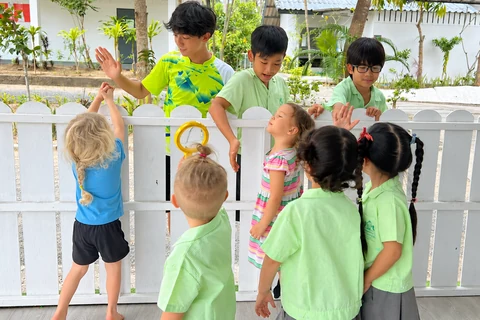
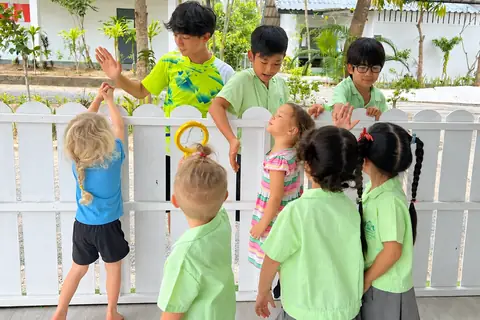
Admissions photo: halve file sizes and load it straight away
Re-encodes admissions-children-fence at WebP quality 70 (the site's photo
recipe): 46/149/257 KB -> 26/77/128 KB with no visible change. The photo
is in the first screen on desktop, so it is no longer lazy-loaded and is
fetched with high priority.

Claude-Session: https://claude.ai/code/session_01JR4YPFXRB8NFUYncfG4WTN

diff --git a/admissions/admissions-visits/index.html b/admissions/admissions-visits/index.html
@@ -71,7 +71,7 @@
 </div>
 </header><main id="main-content">
 <section class="page-hero practical-page-hero"><div class="wrap"><nav aria-label="Breadcrumb" class="eyebrow page-trail">Admissions <span class="page-trail__sep" aria-hidden="true">›</span> <span aria-current="page">Admissions &amp; Visits</span></nav><h1>Admissions &amp; Visits</h1><p>Choosing a school is easier when you can see it in action. We encourage families to visit Greenacre with their child, meet the team and experience a normal school day.</p></div></section>
-<section><div class="wrap grid2"><div><div class="kicker">Come and see Greenacre</div><h2>Start with a visit</h2><p>Greenacre welcomes enquiries from families considering the school, from Early Years at age 3 through to Cambridge IGCSE. A visit gives you the opportunity to see the learning environment, ask questions and discuss your child's needs with the school.</p><div class="action-row"><a class="action" href="mailto:admissions@greenacre.ac.th">Email Admissions</a><a class="action alt" data-path="admissions/fees" href="../fees/">View Fees</a></div></div><div class="photo-plan primary current-school-photo"><img src="../../assets/images/school-2026/admissions-children-fence-960-v1.webp" srcset="../../assets/images/school-2026/admissions-children-fence-480-v1.webp 480w, ../../assets/images/school-2026/admissions-children-fence-960-v1.webp 960w, ../../assets/images/school-2026/admissions-children-fence-1440-v1.webp 1440w" sizes="(max-width: 900px) calc(100vw - 32px), (max-width: 1524px) 48vw, 730px" alt="Greenacre pupils greeting one another across a white picket fence" loading="lazy" decoding="async" width="1440" height="960" style="object-position:50% 50%"></div></div></section>
+<section><div class="wrap grid2"><div><div class="kicker">Come and see Greenacre</div><h2>Start with a visit</h2><p>Greenacre welcomes enquiries from families considering the school, from Early Years at age 3 through to Cambridge IGCSE. A visit gives you the opportunity to see the learning environment, ask questions and discuss your child's needs with the school.</p><div class="action-row"><a class="action" href="mailto:admissions@greenacre.ac.th">Email Admissions</a><a class="action alt" data-path="admissions/fees" href="../fees/">View Fees</a></div></div><div class="photo-plan primary current-school-photo"><img src="../../assets/images/school-2026/admissions-children-fence-960-v1.webp" srcset="../../assets/images/school-2026/admissions-children-fence-480-v1.webp 480w, ../../assets/images/school-2026/admissions-children-fence-960-v1.webp 960w, ../../assets/images/school-2026/admissions-children-fence-1440-v1.webp 1440w" sizes="(max-width: 900px) calc(100vw - 32px), (max-width: 1524px) 48vw, 730px" alt="Greenacre pupils greeting one another across a white picket fence" fetchpriority="high" decoding="async" width="1440" height="960" style="object-position:50% 50%"></div></div></section>
 <section style="background:#fff"><div class="wrap"><div class="kicker">How to join</div><h2>A straightforward admissions process</h2><div class="steps"><div class="step"><b>1</b><h3>Make an Enquiry</h3><p>When you email Admissions, please include your child's age or current year group, your intended start date and any learning or language support needs you would like to discuss.</p></div><div class="step"><b>2</b><h3>Visit Greenacre</h3><p>Arrange a visit where possible to meet the team, see the school and discuss your child’s needs.</p></div><div class="step"><b>3</b><h3>Submit an Application</h3><p>Complete an application for your child and provide the supporting information requested by Admissions.</p></div><div class="step"><b>4</b><h3>Student Assessment</h3><p>Where appropriate, the school will arrange an assessment to help ensure Greenacre can meet your child’s needs.</p></div><div class="step"><b>5</b><h3>Offer of a Place</h3><p>Following the admissions review, successful applicants will receive an offer of a place.</p></div><div class="step"><b>6</b><h3>Welcome to Greenacre</h3><p>Admissions will guide your family through the final arrangements so your child is ready to join the school.</p></div></div></div></section>
 <section><div class="wrap"><div class="notice"><strong>Planning to apply?</strong><br/>Admissions will guide you through the information, documents and next steps needed for your child’s application.</div><div class="action-row"><a class="action" href="mailto:admissions@greenacre.ac.th">Contact Admissions</a><a class="action alt" data-path="admissions/faqs" href="../faqs/">Read FAQs</a></div></div></section>
 </main>

diff --git a/PHOTO-SOURCES.md b/PHOTO-SOURCES.md
@@ -36,7 +36,7 @@ This register reflects the latest user-selected photos for Campus, Secondary, Pr
 | `our-school/environmentality/` / 2 ("Our values in action") | User-selected imagegen edit of `IMG_4188.HEIC`, swapped from the homepage on 11 October 2026 | `assets/images/school-2026/watering-together-*.webp`; 50% 50% |
 | `our-school/wellbeing/` / 1 | [Current school site](https://www.greenacre.ac.th/extra-curricular/wellbeing) | `assets/images/current-site/extra-curricular-wellbeing-02.webp` |
 | `our-school/wellbeing/` / 2 | `IMG_5038.PNG` | `assets/images/school-2026/outdoor-chess-*.webp`; 50% 72% |
-| `admissions/admissions-visits/` / 1 | George-supplied photo of a staff member showing visitors around (1448x1086, second version supplied 17 Oct 2026; replaces the 11 Oct plant photo) | `assets/images/school-2026/admissions-visit-tour-*-v1.webp`; 3:2 crop (rows 90-1055, full width, keeps everyone head to toe), 50% 50%. Levels stretched (0.3%/99.7% luminance), saturation x1.12, no sharpening; WebP quality 70. Set 29/86/148 KB. Earlier plant photo files kept unused |
+| `admissions/admissions-visits/` / 1 | George-supplied photo of students greeting one another across a white picket fence (added by George 24 Oct 2026; replaces the 17 Oct tour photo) | `assets/images/school-2026/admissions-children-fence-*-v1.webp`; 3:2, 50% 50%. Re-encoded 24 Oct 2026 at WebP quality 70 (480/960 made from the 1440 file) to match the site recipe: set 26/77/128 KB, down from 46/149/257 KB, no visible change. The image sits in the first screen, so it loads straight away (`fetchpriority="high"`, not lazy). Earlier tour and plant photo files kept unused |
 | `parent-information/services/` / 1 | [Current school site](https://www.greenacre.ac.th/academics/environmentality) | `assets/images/current-site/academics-environmentality-02.webp` |
 | `our-school/head-of-school-welcome/` / 1 | `1742964487955 (1).jpg` | `assets/images/school-2026/head-dara-nagle-*.webp`; 50% 0% |
 | `work-with-us/` / 1 | `work with us.png` (sharper version supplied 11 October 2026) | `assets/images/recruitment/teacher-easel-*.webp`; 3:2 crop, 50% 50%. The earlier teacher-and-pupils photo remains on Curriculum |
